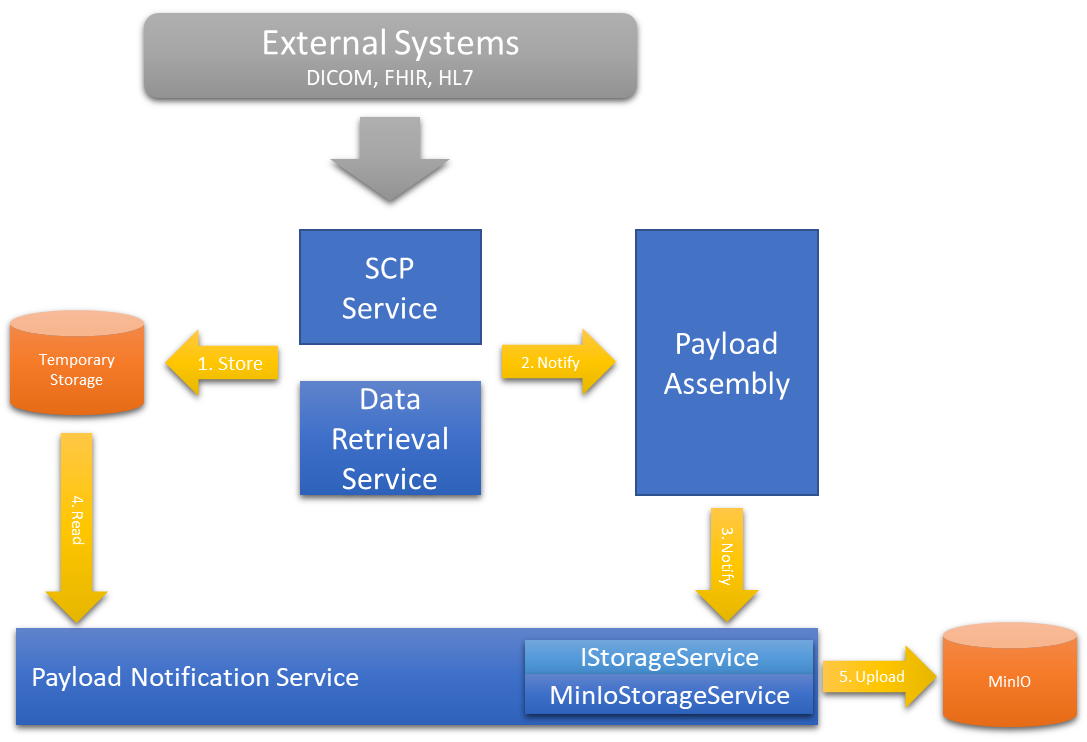
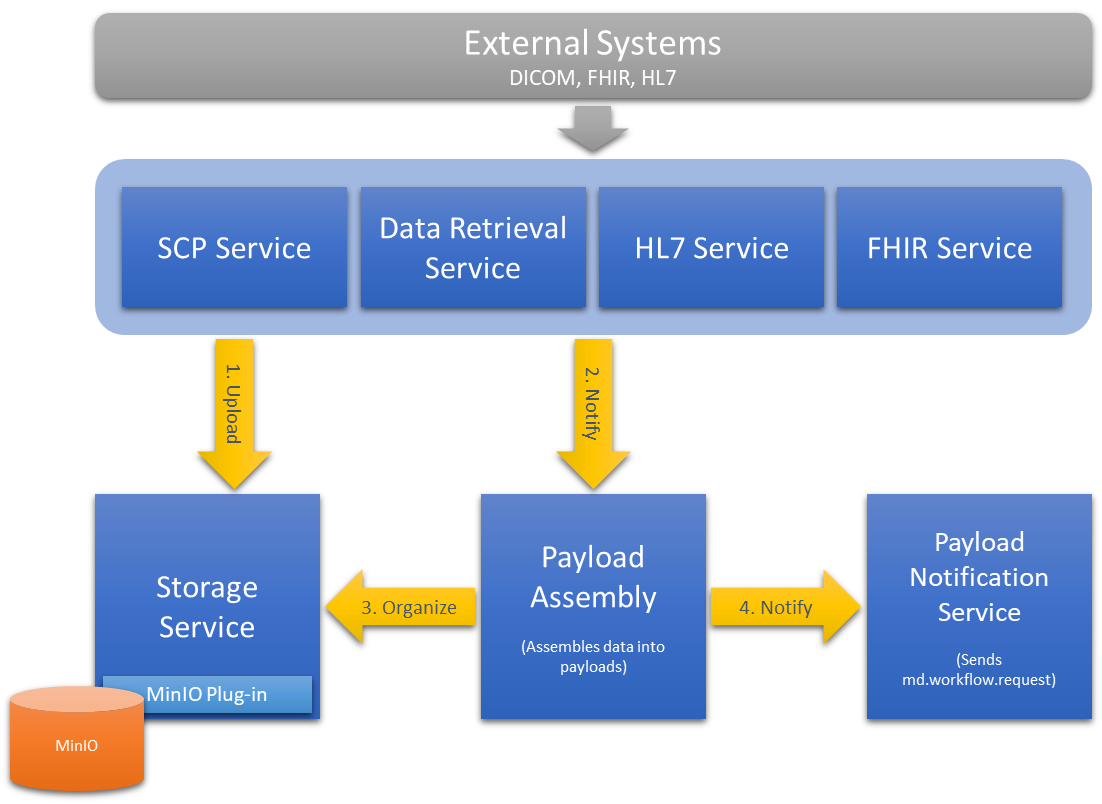
gh-48 Design changes for temporary storage

diff --git a/guidelines/srs.md b/guidelines/srs.md
@@ -132,7 +132,7 @@ MIG Storage SCP service can be configured to accept all incoming association req
 
 #### Retry Logic
 
-(REQ-FNC-01) The system would retry the following actions upon failure. 
+(REQ-FNC-01) The system would retry the following actions upon failure.
 
 | Action       | Retry Delay             | Maximum Retries |
 | ------------ | ----------------------- | --------------- |
@@ -174,7 +174,7 @@ Not applicable.
 
 #### Retry Logic
 
-(REQ-FNC-01) The system would retry the following actions upon failure. 
+(REQ-FNC-01) The system would retry the following actions upon failure.
 
 | Action | Retry Delay             | Maximum Retries |
 | ------ | ----------------------- | --------------- |
@@ -297,10 +297,9 @@ The following APIs are supported to interact with the ACR-DSI API:
 
 ![Storage](diagrams/storage.png)
 
-MIG stores all received & retrieved medical records first in the temporary storage before the dataset is assembled (grouped) by the `Payload Assembler` based on the AE Title's configuration.  Once data is assembled into a `Payload` object, MIG uploads all the files to the virtual storage device specified in the configuration file.
+MIG uploads all received & retrieved medical records to the storage service before the dataset is assembled (grouped) by the `Payload Assembler` based on the AE Title's configuration.  Once data is assembled into a `Payload` object, MIG issues **move** commands using the storage API.
 
-MIG ships with [MinIO](https://min.io/) as the default storage service provider given that it supports local, on-prem and cloud storage solutions.  However, the default storage service can be easily replaced by implementing the [Monai.Deploy.InformaticsGateway.Api.Storage.IStorageService](https://github.com/Project-MONAI/monai-deploy-informatics-gateway/blob/main/src/Api/Storage/IStorageService.cs) interface. This enables users to extend MIG to meet their needs.
-
+MIG ships with [MinIO](https://min.io/) as the default storage service provider given that it supports local, on-prem and cloud storage solutions.  However, the default storage service can easily be replaced by writing your own plug-in. See [MONAI Deploy Storage](https://github.com/Project-MONAI/monai-deploy-storage) project for more information. The plug-in architecture enables users to extend MIG by writing their own storage plug-ins.
 
 #### Retry Logic
 
@@ -318,7 +317,7 @@ Informatics Gateway and the Workflow Manager follow the publisher-subscriber pat
 
 ![Message Broker](diagrams/message-broker.png)
 
-MIG publishes and subscribes events to/from other subsystems using the `IMessageBrokerPublisherService` interface and `IMessageBrokerSubscriberService` interface, respectively. The default message broker service used is provided by [RabbitMQ](https://www.rabbitmq.com/). 
+MIG publishes and subscribes events to/from other subsystems using the `IMessageBrokerPublisherService` interface and `IMessageBrokerSubscriberService` interface, respectively. The default message broker service used is provided by [RabbitMQ](https://www.rabbitmq.com/).
 
 With RabbitMQ, IG publishes message to the exchange (`InformaticsGateway>messaging>publisherSettings>exchange`) with different *routing keys* based on the event type listed in the following sections.
 
@@ -329,7 +328,7 @@ Each event is associated with a specific type and is serialized to JSON before s
 - Workflow Request event
   - Routing Key: `md.workflow.request`
   - Class name: `WorkflowRequestMessage`
-                                        
+
   | Property       | Type               | Description                                                                                                                                                                                     |
   | -------------  | -------------      | ----------------------------------------------------------------------------------------------------------------------------------------------------------------------------------------------- |
   | Bucket         | string             | Name of the bucket/directory name, which can be used to locate the payload on the shared storage.                                                                                               |
@@ -356,7 +355,7 @@ Each event is associated with a specific type and is serialized to JSON before s
 - Export Complete event
   - Routing Key: `md.export.complete`
   - Class name: `ExportCompleteMessage`
-  
+
    | Property     | Type          | Description                                                   |
    | ------------ | ------------- | ------------------------------------------------------------- |
    | WorkflowId   | string (UUID) | A UUID generated by the Workflow Manager.                     |
@@ -371,7 +370,7 @@ Each event is associated with a specific type and is serialized to JSON before s
     - DIMSE SCU Export Service: `md.export.request.monaiscu`
     - DICOMweb Export Service: `md.export.request.monaidicomweb`
   - Class name: `ExportRequestMessage`
-  
+
     | Property      | Type          | Description                                                                                                                                                                   |
     | ------------- | ------------- | ----------------------------------------------------------------------------------------------------------------------------------------------------------------------------- |
     | WorkflowId    | string (UUID) | A UUID generated by the Workflow Manager.                                                                                                                                     |
